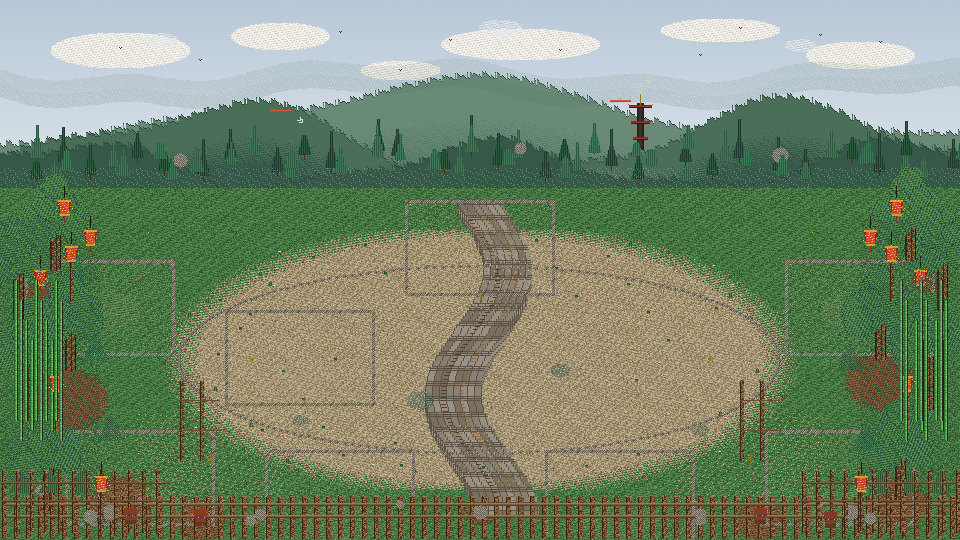
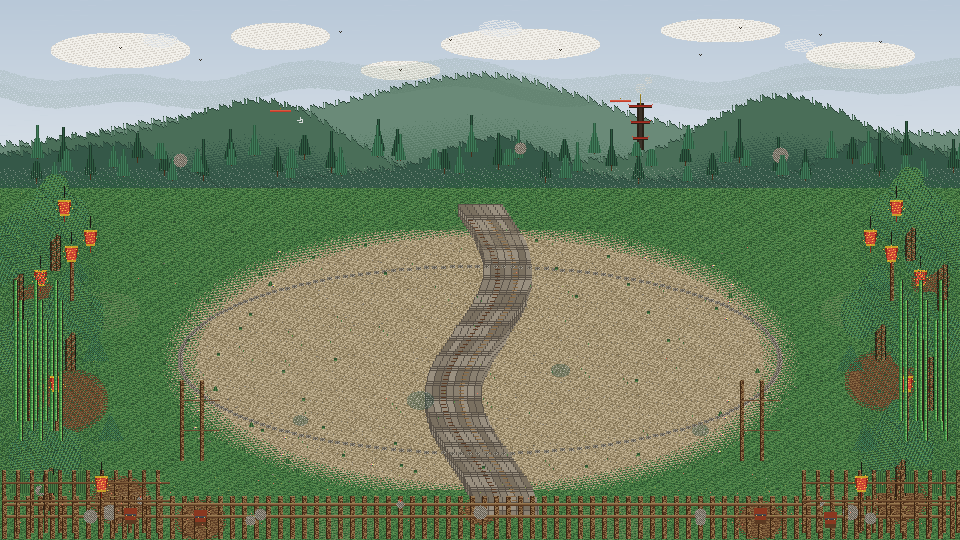
v0.9.10: clear village pad debug boxes (transparent pad + clean composed)
In-game still uses layered tiles + 8 building sprites (not composed).
Pad tile fully transparent; previews recomposed without cell/gold boxes.

diff --git a/tools/gen_pivot_r4.py b/tools/gen_pivot_r4.py
@@ -815,52 +815,8 @@ def gen_hills_r4() -> Image.Image:
 
 
 def gen_pad_r4() -> Image.Image:
-    """建築墊層：旗石縫、微粒；錨位拉開；中央大片淨。"""
-    img = r2.gen_pad_r2()
-    pix = img.load()
-
-    # flagstone seams only near pad cells (not flood center empty)
-    cell_w, cell_h = 150, 96
-    # spaced pad origins matching R2/R3 layout feel — leave center open
-    origins = [
-        (480 - cell_w // 2, 200),   # manor north
-        (100 - cell_w // 2, 260),   # warehouse
-        (860 - cell_w // 2, 260),   # forge
-        (140 - cell_w // 2, 430),   # inn
-        (840 - cell_w // 2, 430),   # training
-        (340 - cell_w // 2, 450),   # clinic
-        (620 - cell_w // 2, 450),   # bounty
-        (300 - cell_w // 2, 310),   # academy
-    ]
-    for oi, (ox, oy) in enumerate(origins):
-        # soft packed rect
-        for y in range(oy, oy + cell_h):
-            for x in range(ox, ox + cell_w):
-                if not (0 <= x < VW and 0 <= y < VH):
-                    continue
-                # border only denser — interior light grit
-                on_edge = (x < ox + 3 or x > ox + cell_w - 4 or y < oy + 3 or y > oy + cell_h - 4)
-                if on_edge:
-                    put(pix, VW, VH, x, y, STONE[(x + y) % len(STONE)])
-                    if (x + y) % 7 == 0:
-                        put(pix, VW, VH, x, y, MORTAR)
-                else:
-                    if noise(x, y, 2300 + oi) < 0.04:
-                        put(pix, VW, VH, x, y, blend(PACK[1], STONE[1], 0.35))
-        # gold corner ticks
-        for cx, cy in [(ox + 4, oy + 4), (ox + cell_w - 5, oy + 4),
-                       (ox + 4, oy + cell_h - 5), (ox + cell_w - 5, oy + cell_h - 5)]:
-            put(pix, VW, VH, cx, cy, GOLD[2])
-            put(pix, VW, VH, cx + 1, cy, GOLD[1])
-
-    # explicit clear center rect (wipe props) — 可建空地
-    for y in range(300, 440):
-        for x in range(400, 560):
-            # only clear pad layer pixels that aren't near academy/manor pads
-            if abs(x - 480) < 70 and abs(y - 370) < 55:
-                pix[x, y] = TRANS
-
-    return img
+    """建築墊層：正式 tile 全透明（唔焗碰撞／預覽灰框）；可建提示用遊戲內 pad_hint。"""
+    return new_img(VW, VH)
 
 
 def gen_fg_r4() -> Image.Image:
